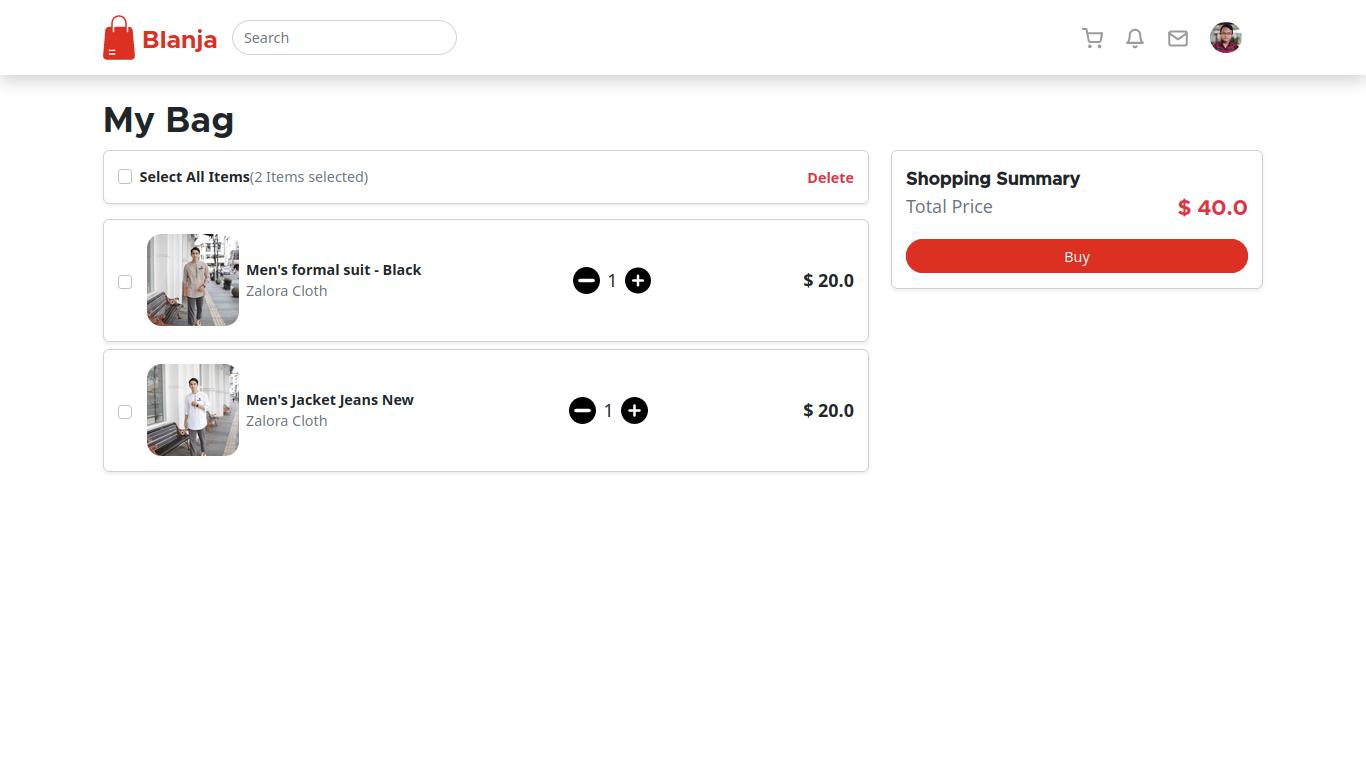
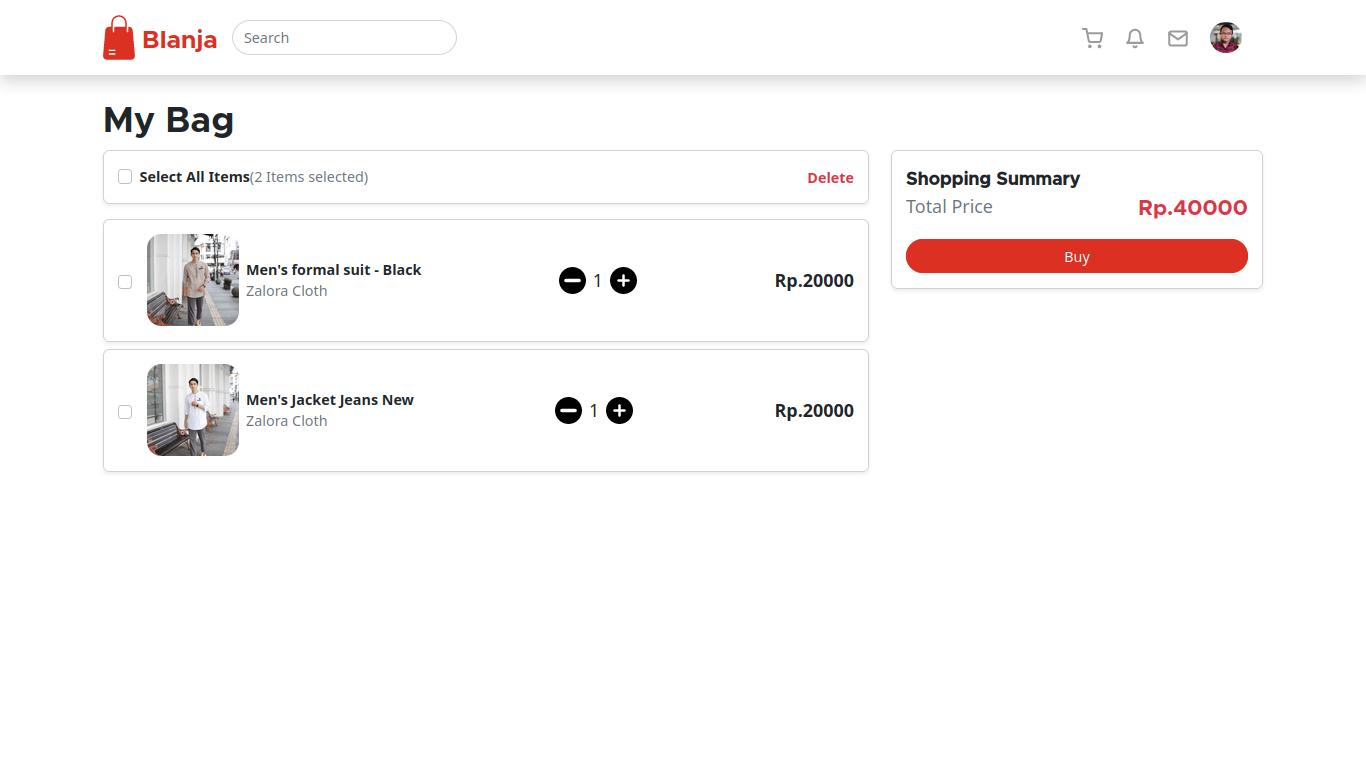
fix screenshoot

diff --git a/src/pages/Login.jsx b/src/pages/Login.jsx
@@ -1,9 +1,107 @@
-import React from "react";
+import React, { useState } from "react";
 import mainLogo from "../assets/images/Main Logo.svg";
 import { Link } from "react-router-dom";
 import authCSS from "../assets/css/auth.module.css";
+import Swal from "sweetalert2";
+import axios from "axios";
 
 function Login() {
+  const [formLoginSeller, setFormLoginSeller] = useState({
+    email: "",
+    password: ""
+  })
+  const [formLoginUser, setFormLoginUser] = useState({
+    email: "",
+    password: ""
+  })
+  const handleChangeSeller = (event) => {
+    setFormLoginSeller({
+      ...formLoginSeller,
+      [event.target.name]: event.target.value
+    })
+  }
+  const handleChangeUser = (event) => {
+    setFormLoginUser({
+      ...formLoginUser,
+      [event.target.name]: event.target.value
+    })
+  }
+  const handleLoginSeller = (event) => {
+    event.preventDefault()
+    console.log(formLoginSeller)
+    // axios.post(`${process.env.REACT_APP_BACKEND}/users/login`, formLoginUser)
+    //   .then((res) => {
+    //     console.log(res.data.data[0])
+    //     Swal.fire({
+    //       title: `Login Success`,
+    //       text: `${res.data.message}`,
+    //       icon: 'success',
+    //     });
+    //     const data = res.data.data[0]
+    //     localStorage.setItem('token', data.token);
+    //     localStorage.setItem('id', data.id);
+    //     localStorage.setItem('role', data.role);
+    //     localStorage.setItem('photo', data.photo);
+    //     // router.push("/")
+    //   })
+    //   .catch((err) => {
+    //     if (err.response && err.response.data) {
+    //       Swal.fire({
+    //         title: `Login Failed`,
+    //         text: `${err.response.data.message}`,
+    //         icon: 'error',
+    //       });
+    //     } else {
+    //       Swal.fire({
+    //         title: `Login Failed`,
+    //         text: `Unknown issue, please contact admin`,
+    //         icon: 'error',
+    //       });
+    //     }
+    //     setFormLoginUser({
+    //       email: "",
+    //       password: ""
+    //     })
+    //   })
+  }
+  const handleLoginUser = (event) => {
+    event.preventDefault()
+    console.log(formLoginUser)
+    // axios.post(`${process.env.REACT_APP_BACKEND}/users/login`, formLoginUser)
+    //   .then((res) => {
+    //     console.log(res.data.data[0])
+    //     Swal.fire({
+    //       title: `Login Success`,
+    //       text: `${res.data.message}`,
+    //       icon: 'success',
+    //     });
+    //     const data = res.data.data[0]
+    //     localStorage.setItem('token', data.token);
+    //     localStorage.setItem('id', data.id);
+    //     localStorage.setItem('role', data.role);
+    //     localStorage.setItem('photo', data.photo);
+    //     // router.push("/")
+    //   })
+    //   .catch((err) => {
+    //     if (err.response && err.response.data) {
+    //       Swal.fire({
+    //         title: `Login Failed`,
+    //         text: `${err.response.data.message}`,
+    //         icon: 'error',
+    //       });
+    //     } else {
+    //       Swal.fire({
+    //         title: `Login Failed`,
+    //         text: `Unknown issue, please contact admin`,
+    //         icon: 'error',
+    //       });
+    //     }
+    //     setFormLoginUser({
+    //       email: "",
+    //       password: ""
+    //     })
+    //   })
+  }
   return (
     <>
       <div className="vh-100 d-flex align-items-center">
@@ -80,6 +178,7 @@ function Login() {
                     id="email"
                     placeholder="Email"
                     className="form-control"
+                    onChange={handleChangeUser}
                   />
                 </div>
               </div>
@@ -91,7 +190,15 @@ function Login() {
                     id="password"
                     placeholder="Password"
                     className="form-control"
+                    onChange={handleChangeUser}
                   />
+                </div>
+              </div>
+              <div className="row mt-4 mb-4 justify-content-center">
+                <div className="col-lg-4 d-flex justify-content-center">
+                  <button onClick={handleLoginUser} className="btn btn-primary rounded-pill w-100">
+                    Login
+                  </button>
                 </div>
               </div>
             </div>
@@ -110,6 +217,7 @@ function Login() {
                     id="email"
                     placeholder="Email"
                     className="form-control"
+                    onChange={handleChangeSeller}
                   />
                 </div>
               </div>
@@ -121,29 +229,31 @@ function Login() {
                     id="password"
                     placeholder="Password"
                     className="form-control"
+                    onChange={handleChangeSeller}
                   />
+                </div>
+              </div>
+              <div className="row mt-4 mb-4 justify-content-center">
+                <div className="col-lg-4 d-flex justify-content-center">
+                  <button onClick={handleLoginSeller} className="btn btn-primary rounded-pill w-100">
+                    Login
+                  </button>
                 </div>
               </div>
             </div>
           </div>
           {/* Input End */}
           {/* F Password Start */}
-          <div className="row my-3 justify-content-center">
+          {/* <div className="row my-3 justify-content-center">
             <div className="col-lg-4 d-flex justify-content-end">
               <Link to="#">
                 <span className="">Forgot password?</span>
               </Link>
             </div>
-          </div>
+          </div> */}
           {/* F Password End */}
           {/* Button Start */}
-          <div className="row mb-4 justify-content-center">
-            <div className="col-lg-4 d-flex justify-content-center">
-              <button className="btn btn-primary rounded-pill w-100">
-                Primary
-              </button>
-            </div>
-          </div>
+
           {/* Button End */}
           {/* Register Start */}
           <div className="row">

diff --git a/src/pages/Checkout.jsx b/src/pages/Checkout.jsx
@@ -52,7 +52,7 @@ function Checkout() {
                     </div>
                   </div>
                   <span className="fs-5">
-                    <b>$ 20.0</b>
+                    <b>Rp.20000</b>
                   </span>
                 </div>
               </div>
@@ -75,7 +75,7 @@ function Checkout() {
                     </div>
                   </div>
                   <span className="fs-5">
-                    <b>$ 20.0</b>
+                    <b>Rp.20000</b>
                   </span>
                 </div>
               </div>
@@ -87,16 +87,16 @@ function Checkout() {
                 <b className="fs-5 mb-3">Shopping summary</b>
                 <div className="d-flex justify-content-between">
                   <span className="fs-5 text-secondary">Order</span>
-                  <span className="text-danger fs-4">$ 40.0</span>
+                  <span className="text-danger fs-4">Rp.40000</span>
                 </div>
                 <div className="d-flex justify-content-between">
                   <span className="fs-5 text-secondary">Delivery</span>
-                  <span className="text-danger fs-4">$ 5.0</span>
+                  <span className="text-danger fs-4">Rp.5000</span>
                 </div>
                 <hr />
                 <div className="d-flex justify-content-between mb-3">
                   <span className="fs-5 text-secondary">Shopping summary</span>
-                  <span className="text-danger fs-4 metropolis-b">$ 45.0</span>
+                  <span className="text-danger fs-4 metropolis-b">Rp.45000</span>
                 </div>
                 <button
                   className="btn btn-primary rounded-pill w-100"
@@ -223,11 +223,11 @@ function Checkout() {
                 <br />
                 <div className="d-flex justify-content-between">
                   <span className="text-secondary">Order</span>
-                  <span className="metropolis-b">$ 40.0</span>
+                  <span className="metropolis-b">Rp.40000</span>
                 </div>
                 <div className="d-flex justify-content-between">
                   <span className="text-secondary">Delivery</span>
-                  <span className="metropolis-b">$ 5.0</span>
+                  <span className="metropolis-b">Rp5000</span>
                 </div>
               </div>
             </div>
@@ -235,7 +235,7 @@ function Checkout() {
               <div>
                 <span className="metropolis-b">Shopping summary</span>
                 <br />
-                <span className="metropolis-b fs-5 text-danger">$ 45.0</span>
+                <span className="metropolis-b fs-5 text-danger">Rp.45000</span>
               </div>
               <button
                 type="button"

diff --git a/src/pages/MyBag.jsx b/src/pages/MyBag.jsx
@@ -58,7 +58,7 @@ function MyBag() {
                   </div>
                   <Adder />
                   <span className="fs-5">
-                    <b>$ 20.0</b>
+                    <b>Rp.20000</b>
                   </span>
                 </div>
               </div>
@@ -88,7 +88,7 @@ function MyBag() {
                   </div>
                   <Adder />
                   <span className="fs-5">
-                    <b>$ 20.0</b>
+                    <b>Rp.20000</b>
                   </span>
                 </div>
               </div>
@@ -100,7 +100,7 @@ function MyBag() {
                 <b className="fs-5 metropolis-b">Shopping Summary</b>
                 <div className="d-flex justify-content-between mb-3">
                   <span className="fs-5 text-secondary">Total Price</span>
-                  <span className="text-danger metropolis-b fs-4">$ 40.0</span>
+                  <span className="text-danger metropolis-b fs-4">Rp.40000</span>
                 </div>
                 <button className="btn btn-primary rounded-pill w-100">
                   Buy

diff --git a/src/pages/Profile.jsx b/src/pages/Profile.jsx
@@ -217,7 +217,7 @@ function Profile() {
                           <tr key={element.id}>
                             <th scope="row">{index + 1}</th>
                             <td>{element.product_name}</td>
-                            <td>{element.product_price}</td>
+                            <td>{`Rp.`+element.product_price}</td>
                             <td>
                               <div>
                                 {/* <ModalDelete

diff --git a/README.md b/README.md
@@ -92,7 +92,7 @@ npm build
 
 <table>
  <tr>
-    <td><img width="350px" src="./public/docs/Kairshop Landing Page.jpg" border="0" alt="Landing Page" /></td>
+    <td><img width="350px" src="./public/docs/Kairshop Landing Page.png" border="0" alt="Landing Page" /></td>
     <td> <img width="350px" src="./public/docs/Kairshop Login.jpg" border="0"  alt="Login" /></td>
   </tr>
    <tr>
